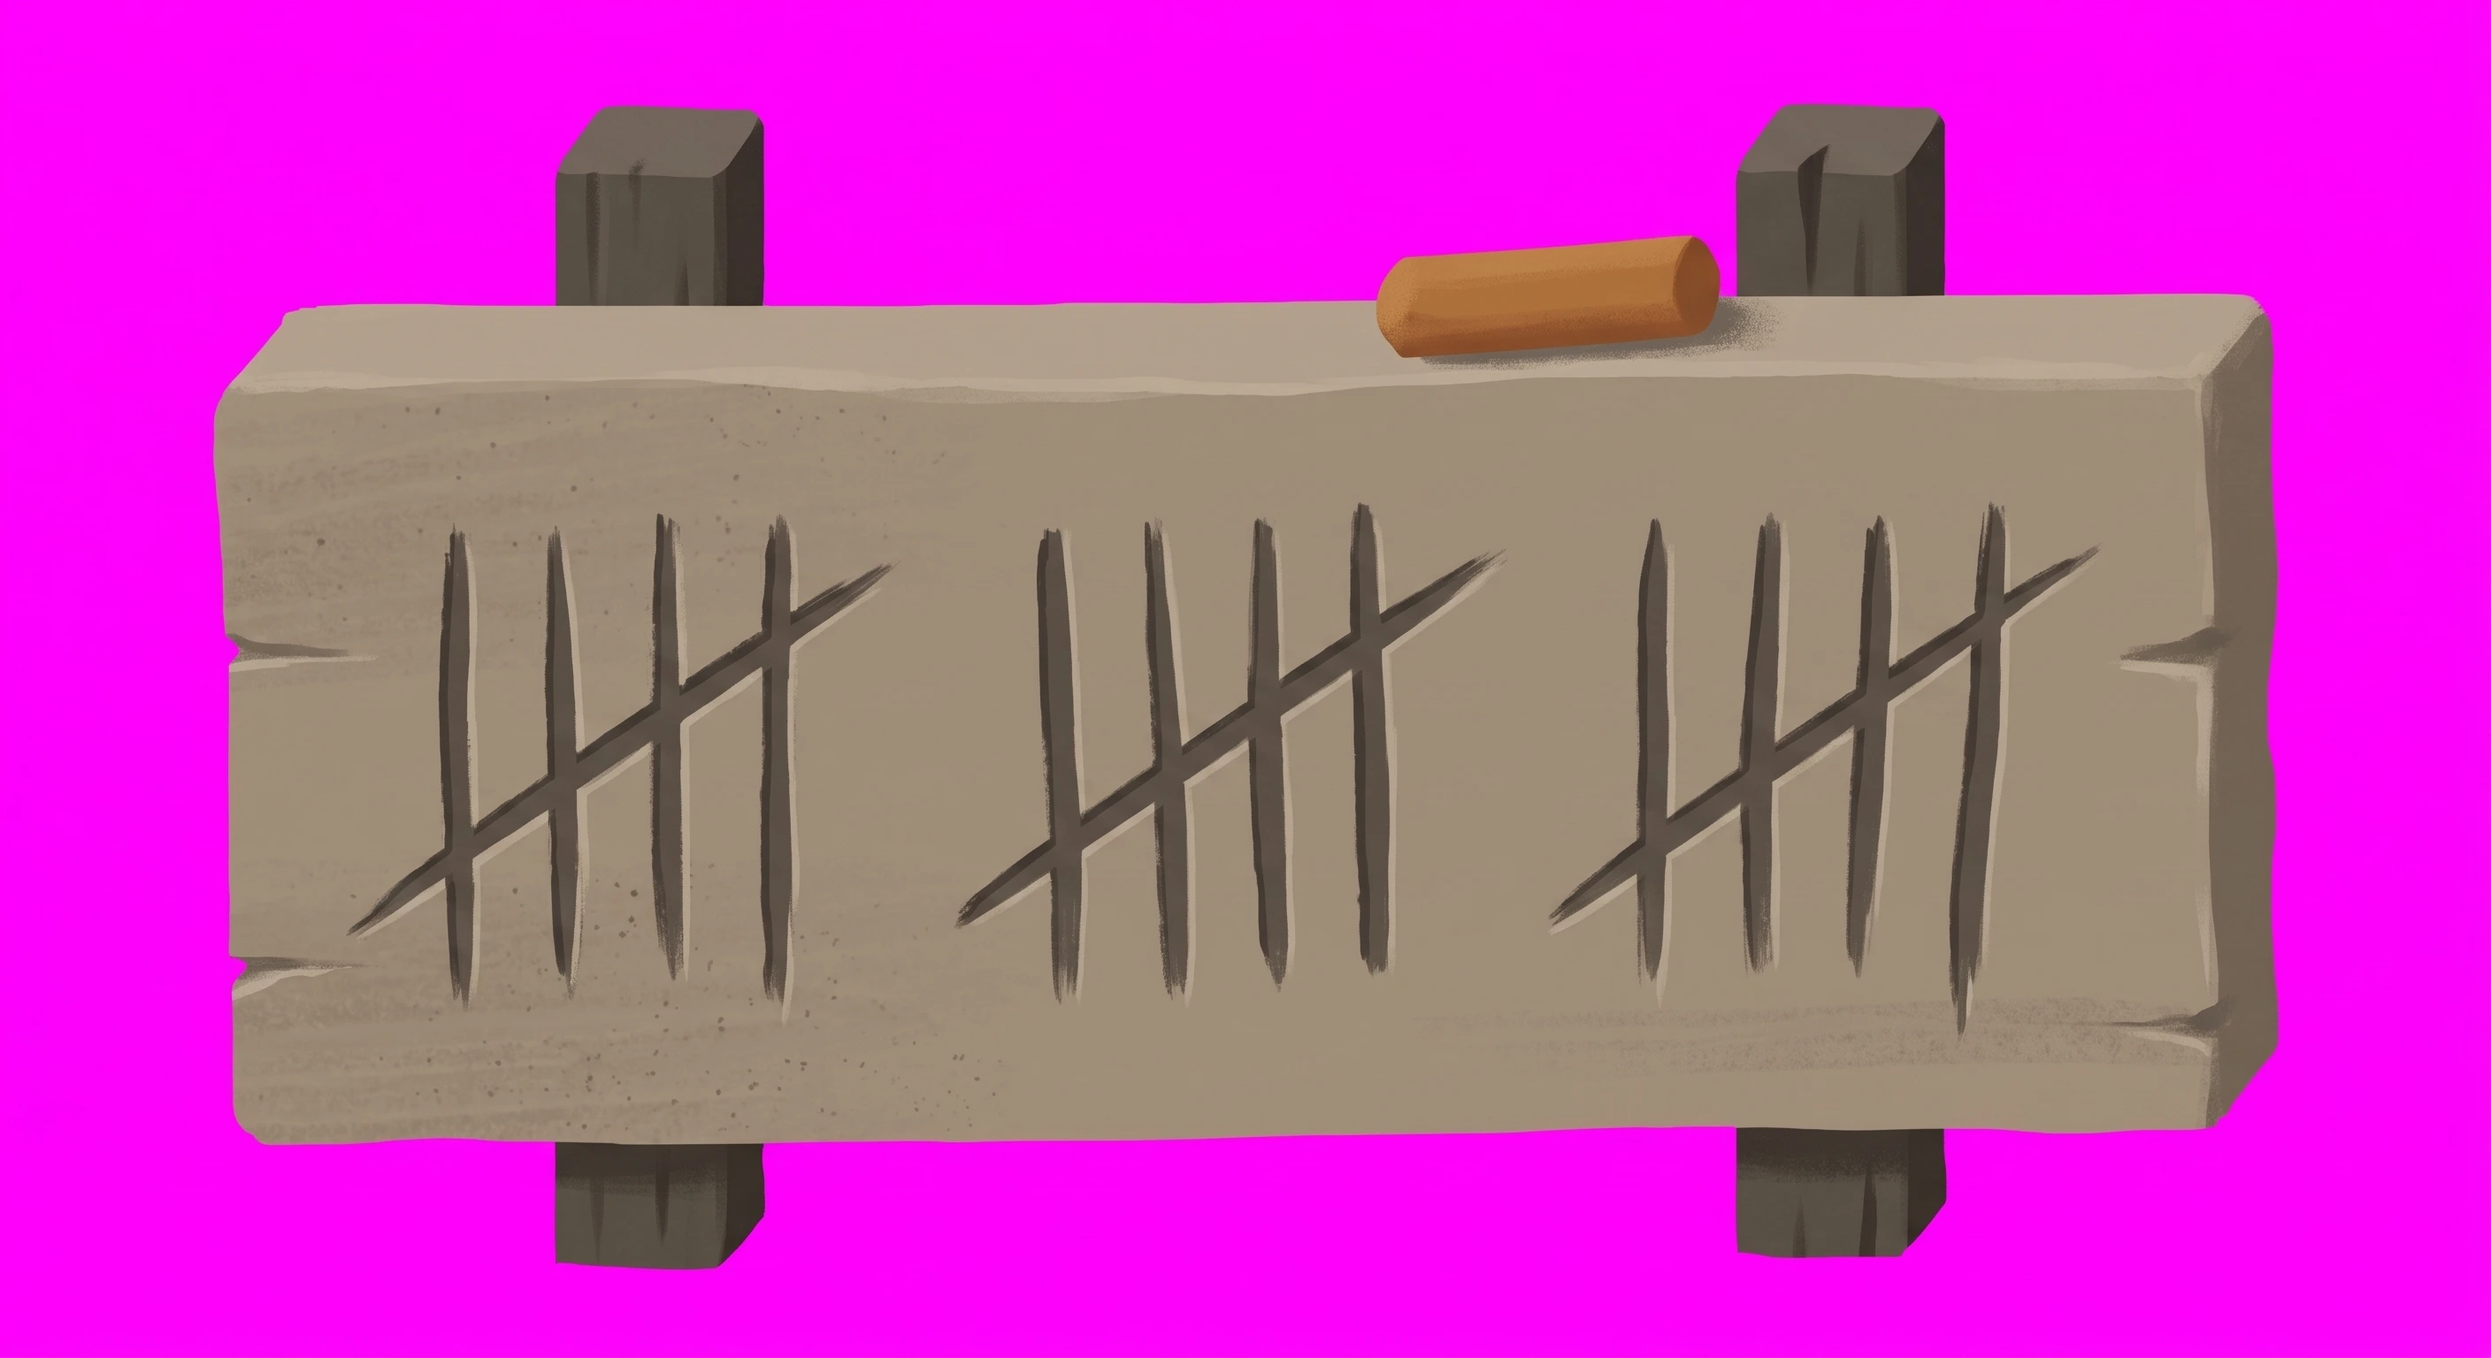
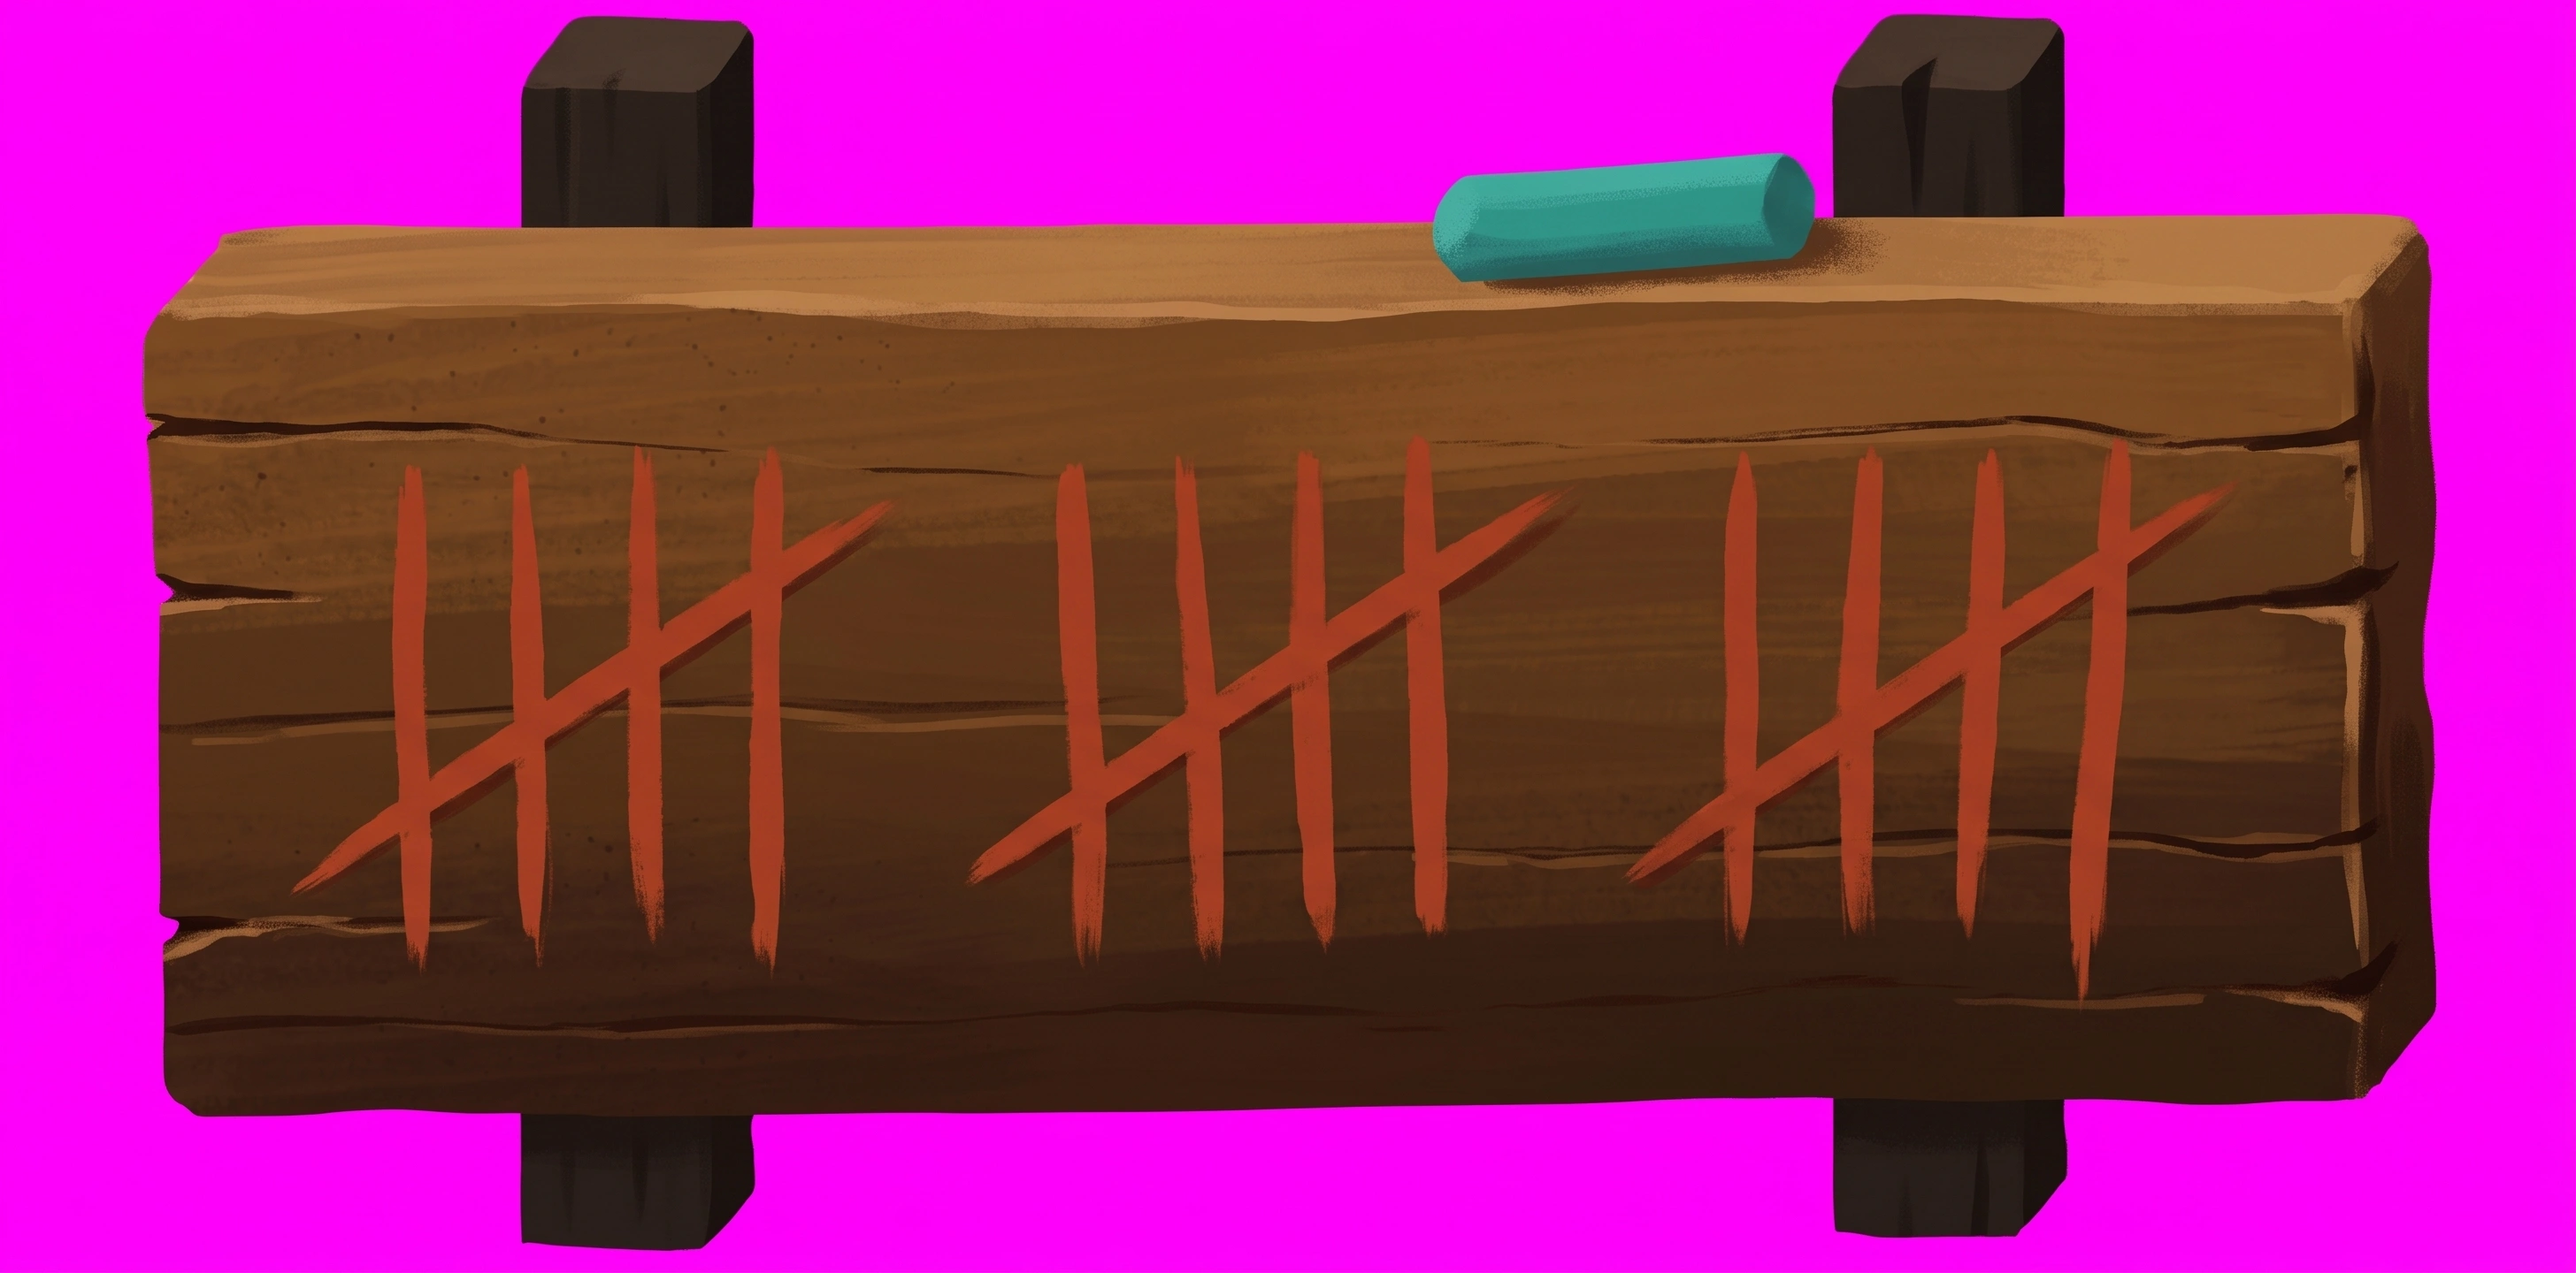
feat: starter's tally board repainted, dark timber and red ochre strokes
Claude-Session: https://claude.ai/code/session_01NQk9Q1WZoZfDzoRioyXby1

diff --git a/docs/instructions/repaint-queue.md b/docs/instructions/repaint-queue.md
@@ -193,46 +193,6 @@ the shabti is `--mesh=art/masters/meshes/shabti.glb`. `starter-plain.png` is the
 `art/masters/surfaces/starter-floor.webp` scaled to 1024, the crop every `<tier>-plain.png` is. The
 tally board has no scaffold: it attaches its own master.
 
-### `starter/tallyBoard` — a dark plank of ochre tally strokes
-
-FLAT, so there is no scaffold to attach: the first attachment is the landed tile's own master, and the
-prompt is an EDIT of it — same plank, same strokes, new colours. The import overwrites that master, so it
-is replaced only by a return you have kept.
-
-**Attach:**
-
-1. `art/masters/props/starter/tallyBoard.webp` — the plank to repaint
-2. `~/tile-previews/starter-plain.png` — the material reference
-
-```
-A wall-less product shot of a single flat object, painted in flat matte gouache, no background, on pure magenta #FF00FF. Landscape, two units wide by one tall, exactly as the reference. Do not re-compose it into a square. Paint over the reference image itself.
-
-The object: a TALLY BOARD — one wooden plank hanging on two pegs, the short dark blocks above and below
-each end. Across its face run groups of TALLY STROKES, five to a group, the fifth struck through. Lying
-along its top edge is a stub of CHALK.
-
-The plank is old timber, DARK honey-brown #5e3a1e going to #9a6a3c on its lit top edge, split along the
-grain. The tally strokes are painted red ochre #b8452c, bright where fresh and rubbed where counted off.
-The pegs are near-black #3a2a1c. The chalk stub is a small turquoise #2a9d8f stick, not white. Nothing on
-the plank is grey or pale.
-
-IT SITS IN A WALL ABOVE A PALE FLOOR AND MUST READ DARK. The floor is pale limestone, #d8c8a8. The object
-as a whole is clearly DARKER and more colourful than that: nothing on it larger than a fingertip is
-lighter than terracotta #c0612f, and only the turquoise #2a9d8f may be, in small touches. Its lower edge
-is its darkest, deep umber #3a2a1c. Nothing on it is white, cream, bleached or whitewash.
-
-Keep every edge, every proportion and every silhouette exactly as in the reference image — do not move, resize, straighten, add, remove or restyle any part of it, and do not change the angle it stands at. Paint only material and wear.
-
-No highlights, no gloss, no rim light, no ground plane, no reflections. Matte throughout, as if lit by one dull lamp. Merchant's storehouse: fired terracotta #c0612f and #7e3a1a, honey-brown timber #9a6a3c and #5e3a1e, red ochre paint #b8452c, turquoise faience #2a9d8f. Saturated and warm — colour that reads from across the room — and never as pale as the floor it stands on.
-```
-
-Then, once the return is in `~/Downloads`:
-
-```sh
-yarn import-tile art/masters/props/starter/tallyBoard.webp --tier=starter --name=tallyBoard --slot=wall \
-  --filter=smooth --headroom=0.18
-```
-
 ### `starter/rubblePile` — broken mudbrick, one brick still red
 
 **Attach:**
